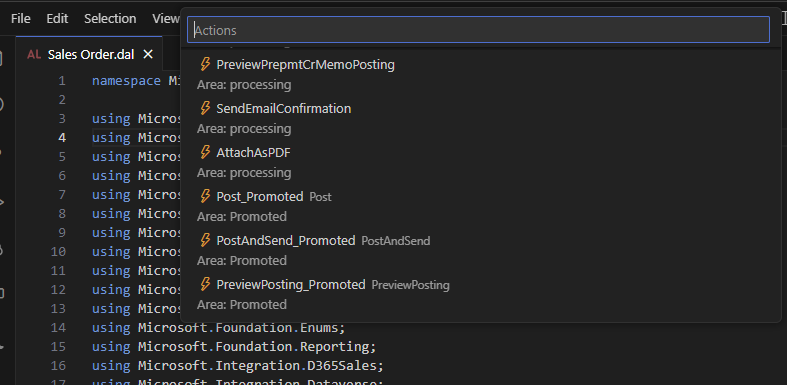
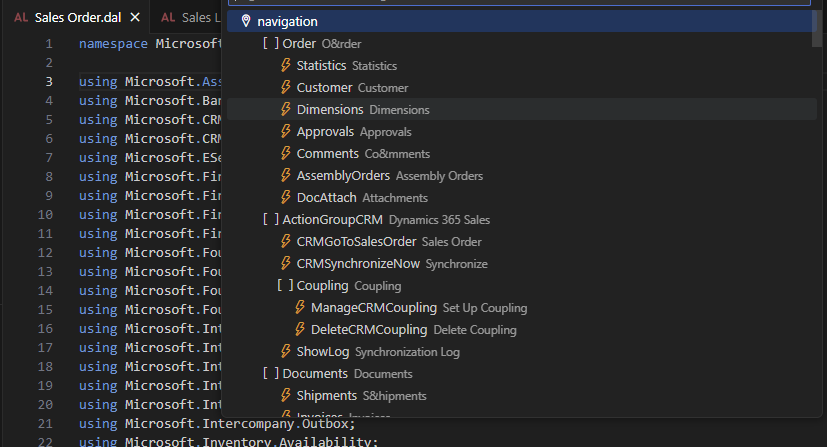
AL Object Explorer improvements

Changed region(s): [[0.0, 0.0, 1.0, 1.0], [0.0305, 0.374, 0.061, 0.4052], [0.0, 0.2494, 0.0305, 0.2805]]

diff --git a/src/alObject/alObjectExplorer.ts b/src/alObject/alObjectExplorer.ts
@@ -196,7 +196,8 @@ export async function showObjectItems(items: QuickPickItem[], title: string, ena
                         `${item.label}`,
             description: (item.startLine === currItemStartLine) ? `${item.description} $(eye)` : item.description,
             detail: (item.detail && (item.level > 0)) ? `${'    '.repeat(item.level)} ${item.detail}` : item.detail,
-            startLine: item.startLine
+            startLine: item.startLine,
+            kind: item.itemkind
         })), {
             placeHolder: `${title}`,
             matchOnDescription: enableSearchOnDescription,
@@ -222,6 +223,7 @@ export async function showAllFields() {
 
     let enableSearchOnDescription = true;
     let enableSearchOnDetails = true;
+    let lastGroupName = '';
 
     if (alFileMgr.isALObjectDocument(document)) {
         let alObject: ALObject;
@@ -231,12 +233,12 @@ export async function showAllFields() {
         alObjectFields = new ALObjectFields(alObject);
         if (alObjectFields.fields) {
             if (alObjectFields.elementsCount > 0) {
-
                 let items: QuickPickItem[] = [];
                 for (const field of alObjectFields.fields) {
                     let label = field.name;
                     let description = '';
                     let detail = '';
+                    let itemkind = vscode.QuickPickItemKind.Default;
 
                     if (alObject.isTable() || alObject.isTableExt()) {
                         if (field.id > 0) {
@@ -268,60 +270,55 @@ export async function showAllFields() {
                     if (alObject.isPage() || alObject.isPageExt()) {
                         if (!field.isfield) {
                             label = `${field.type}(${field.name})`;
+                            itemkind = vscode.QuickPickItemKind.Separator;
+                            field.iconName = '';
                         }
-
-                        if (field.properties) {
-                            if ('caption' in field.properties) {
-                                if (field.properties['caption']) {
-                                    description = `${field.properties['caption'].trim()}`;
+                        else {
+                            field.level -= 1;
+                            if (field.properties) {
+                                if ('caption' in field.properties) {
+                                    if (field.properties['caption']) {
+                                        description = `${field.properties['caption'].trim()}`;
+                                    }
                                 }
                             }
-                        }
 
-                        if (field.sourceExpr) {
-                            detail = field.sourceExpr;
+                            if (field.sourceExpr) {
+                                description = addTextWithSeparator(description, field.sourceExpr);
+                            }
                         }
                     }
 
                     if (alObject.isQuery()) {
-                        if (field.properties) {
-                            if ('caption' in field.properties) {
-                                if (field.properties['caption']) {
-                                    description = `${field.properties['caption'].trim()}`;
-                                }
-                            }
-                        }
-
                         if (field.sourceExpr) {
-                            detail = field.sourceExpr;
-                        }
-
-                        if (field.properties) {
-                            if ('method' in field.properties) {
-                                detail += ` <${field.properties['method']}()>`;
+                            if (field.properties && ('method' in field.properties)) {
+                                description = `${field.properties['method'].toUpperCase()}(${field.sourceExpr})`;
+                            }
+                            else {
+                                description = field.sourceExpr;
                             }
                         }
 
-                        if (field.dataItem) {
-                            detail = addTextWithSeparator(detail, field.dataItem);
+                        if (field.dataItem !== lastGroupName) {
+                            items.push({
+                                label: field.dataItem,
+                                itemkind: vscode.QuickPickItemKind.Separator
+                            });
+                            lastGroupName = field.dataItem;
                         }
                     }
 
                     if (alObject.isReport() || alObject.isReportExt()) {
-                        if (field.properties) {
-                            if ('caption' in field.properties) {
-                                if (field.properties['caption']) {
-                                    description = `${field.properties['caption'].trim()}`;
-                                }
-                            }
-                        }
-
                         if (field.sourceExpr) {
-                            detail = field.sourceExpr;
+                            description = field.sourceExpr;
                         }
 
-                        if (field.dataItem) {
-                            detail = addTextWithSeparator(detail, field.dataItem);
+                        if (field.dataItem !== lastGroupName) {
+                            items.push({
+                                label: field.dataItem,
+                                itemkind: vscode.QuickPickItemKind.Separator
+                            });
+                            lastGroupName = field.dataItem;
                         }
                     }
 
@@ -332,7 +329,8 @@ export async function showAllFields() {
                         startLine: field.startLine ? field.startLine : 0,
                         endLine: 0,
                         level: field.level,
-                        iconName: field.iconName
+                        iconName: field.iconName,
+                        itemkind: itemkind
                     });
                 }
 
@@ -496,8 +494,9 @@ export async function showAllActions() {
             if (alObjectActions.elementsCount > 0) {
                 let items: QuickPickItem[] = alObjectActions.actions.map(item => ({
                     label: item.name,
-                    description: item.sourceAction ? `Ref: ${item.sourceAction}` : '',
-                    detail: (item.properties && item.properties['caption']) ? `${item.properties['caption']}` : '',
+                    description: item.sourceAction ? `Ref: ${item.sourceAction}` :
+                        (item.properties && item.properties['caption']) ? `${item.properties['caption']}` : '',
+                    detail: '',
                     startLine: item.startLine ? item.startLine : 0,
                     endLine: 0,
                     level: item.level,

diff --git a/src/alObject/alObjectFileMgr.ts b/src/alObject/alObjectFileMgr.ts
@@ -499,7 +499,6 @@ export function findPageFields(alObject: ALObject, alPageFields: ALObjectFields)
                     const lines = codeSectionsInfo[0].content.split('\n');
 
                     let insideMultiLineComment: boolean;
-                    let fieldGroupStack: { type: string, name: string, level: number }[] = [];
                     let currentLevel = -1;
 
                     lines.forEach((lineText, linePos) => {
@@ -525,22 +524,22 @@ export function findPageFields(alObject: ALObject, alPageFields: ALObjectFields)
 
                                 let fieldGroupInfo: { type: string, name: string, extAnchor: boolean } = { type: '', name: '', extAnchor: false };
                                 if (isPageFieldGroupDefinition(lineText, fieldGroupInfo)) {
-                                    fieldGroupStack.push({ type: fieldGroupInfo.type, name: fieldGroupInfo.name, level: currentLevel });
+                                    if (currentLevel === 0) {
+                                        const fieldGroupBody = extractElementDefinitionFromObjectTextArray(lines, linePos, false);
+                                        const properties: { [key: string]: string } = {};
+                                        findAllProperties(fieldGroupBody, properties);
 
-                                    const fieldGroupBody = extractElementDefinitionFromObjectTextArray(lines, linePos, false);
-                                    const properties: { [key: string]: string } = {};
-                                    findAllProperties(fieldGroupBody, properties);
-
-                                    alPageFields.fields.push({
-                                        name: fieldGroupInfo.name,
-                                        type: fieldGroupInfo.type,
-                                        sourceExpr: '',
-                                        isfield: false,
-                                        properties: properties,
-                                        iconName: fieldGroupInfo.extAnchor ? 'plug' : 'symbol-variable',
-                                        level: currentLevel,
-                                        startLine: lineNumber
-                                    });
+                                        alPageFields.fields.push({
+                                            name: fieldGroupInfo.name,
+                                            type: fieldGroupInfo.type,
+                                            sourceExpr: '',
+                                            isfield: false,
+                                            properties: properties,
+                                            iconName: fieldGroupInfo.extAnchor ? 'plug' : 'symbol-variable',
+                                            level: currentLevel,
+                                            startLine: lineNumber
+                                        });
+                                    }
                                 }
 
                                 let fieldInfo: { name: string; sourceExpr: string } = { name: '', sourceExpr: '' };
@@ -557,7 +556,7 @@ export function findPageFields(alObject: ALObject, alPageFields: ALObjectFields)
                                         sourceExpr: fieldInfo.sourceExpr,
                                         properties: properties,
                                         iconName: 'symbol-field',
-                                        level: currentLevel,
+                                        level: currentLevel > 0 ? 1 : 0,
                                         startLine: lineNumber,
                                     });
                                 }
@@ -568,11 +567,6 @@ export function findPageFields(alObject: ALObject, alPageFields: ALObjectFields)
                             }
                             if (lineText.includes("}")) {
                                 currentLevel--;
-
-                                if (fieldGroupStack && (fieldGroupStack.length > 0)) {
-                                    // Elimino tutti i gruppi di livello maggiore
-                                    fieldGroupStack = fieldGroupStack.filter(item => item.level <= currentLevel);
-                                }
                             }
                         }
                     });
@@ -1287,6 +1281,7 @@ export function findQueryColumns(alObject: ALObject, alQueryColumns: ALObjectFie
 
                     let match: RegExpExecArray | null;
                     while ((match = regExpr.queryColumnDefinition.exec(codeSectionsInfo[0].content)) !== null) {
+                        const columnType = match[1].trim().toLowerCase();
                         const fieldName = match[2].trim();
                         if (fieldName) {
                             const sourceExpr = match[3].trim();
@@ -1312,7 +1307,8 @@ export function findQueryColumns(alObject: ALObject, alQueryColumns: ALObjectFie
                                 sourceExpr: sourceExpr,
                                 isfield: true,
                                 properties: properties,
-                                iconName: (properties['method']) ? 'symbol-operator' : 'symbol-field',
+                                iconName: (properties['method']) ? 'symbol-operator' :
+                                    (columnType === 'filter') ? 'filter' : 'symbol-field',
                                 dataItem: refDataItem ? refDataItem.name : '',
                                 level: 0,
                                 startLine: linePosition
